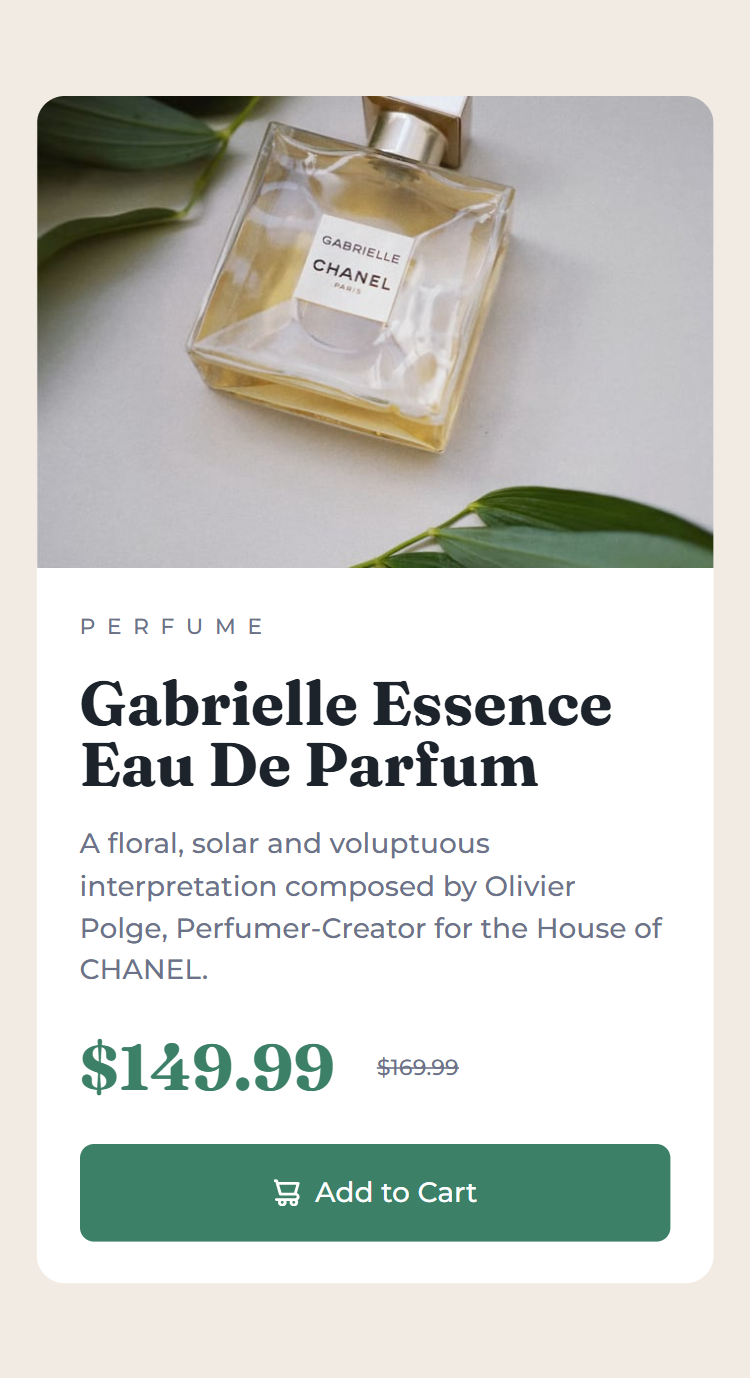
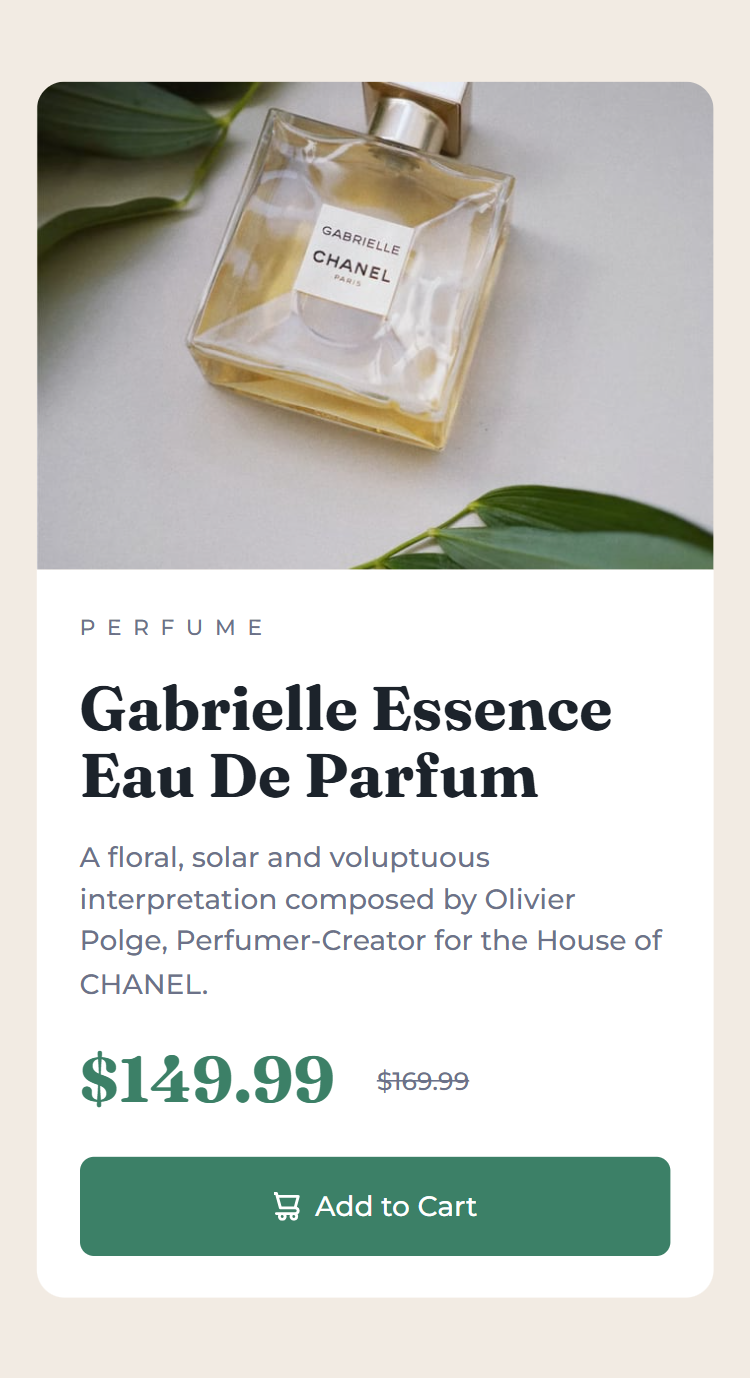
Update image height in main styles

diff --git a/index.html b/index.html
@@ -44,11 +44,14 @@
           <span class="current-price" aria-label="discounted price"
             >$149.99</span
           >
-          <span class="original-price" aria-label="original price">$169.99</span>
+          <span class="original-price" aria-label="original price"
+            >$169.99</span
+          >
         </p>
         <button class="addToCart">
-          <img src="./images/icon-cart.svg" alt="Cart icon">
-          Add to Cart</button>
+          <img src="./images/icon-cart.svg" alt="Cart icon" />
+          Add to Cart
+        </button>
       </div>
     </main>
   </body>

diff --git a/assests/sass/pages/main.scss b/assests/sass/pages/main.scss
@@ -33,6 +33,7 @@ main {
     img {
       width: 100%;
       object-fit: fill;
+      height: 65vw;
       display: block;
       border-radius: 1rem 1rem 0 0;
     }

diff --git a/style.css b/style.css
@@ -36,6 +36,7 @@ main {
 main picture img {
   width: 100%;
   object-fit: fill;
+  height: 65vw;
   display: block;
   border-radius: 1rem 1rem 0 0;
 }
